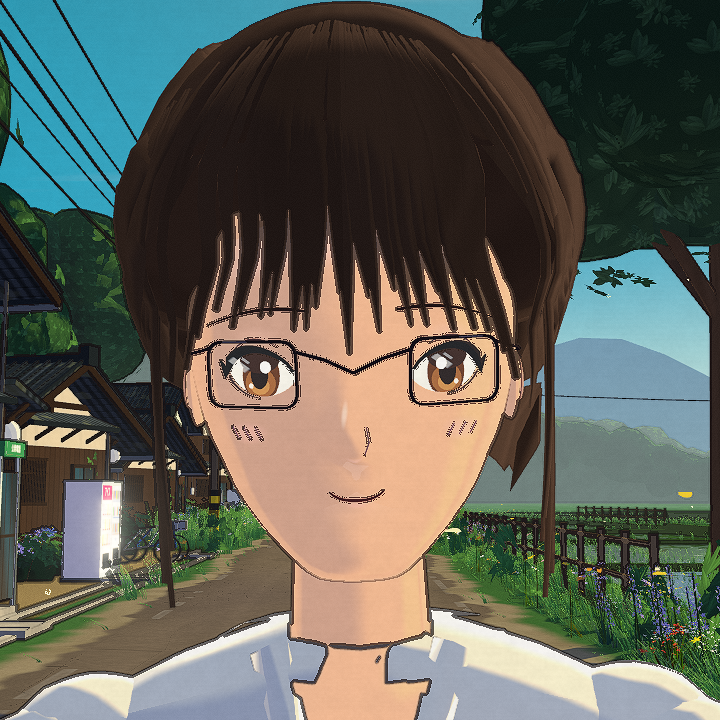
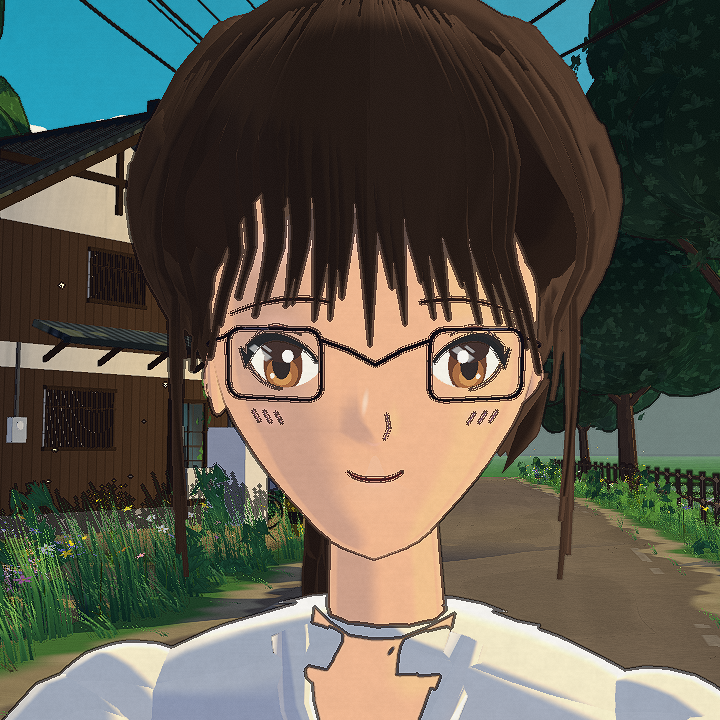
Head pass 3: shorter lower face with a jaw angle under the ear, straight jaw line and small rounded chin, slimmer neck set behind the chin; fuller rounder hair with a shell that thins to the hairline (no ledge), broader face-framing locks; eyes/lenses ~6% larger

diff --git a/src/rider/rider.ts b/src/rider/rider.ts
@@ -96,22 +96,23 @@ const dirOf = (az: number, el: number) => V(Math.sin(az) * Math.cos(el), Math.si
  * where only the chin is left in front of the neck). Above y = 0.03 the cranium closes as a round
  * cap. The front half is a flatter superellipse so the face reads as a soft oval plate.
  */
-const CAP_Y = 0.03, TOP_Y = 0.132, CHIN_Y = -0.1145;
+const CAP_Y = 0.03, TOP_Y = 0.132, CHIN_Y = -0.105;
 const PROF: [number, number, number, number][] = [
   // y       W       F       B
   [0.03, 0.088, 0.099, 0.112],
   [0.01, 0.087, 0.1, 0.11],
   [-0.012, 0.085, 0.099, 0.103],
-  [-0.03, 0.081, 0.099, 0.092],
-  [-0.045, 0.076, 0.098, 0.075],
-  [-0.058, 0.069, 0.096, 0.056],
-  [-0.07, 0.0625, 0.094, 0.034],
-  [-0.082, 0.0535, 0.0925, 0.01],
-  [-0.093, 0.043, 0.0925, -0.014],
-  [-0.102, 0.033, 0.09, -0.033],
-  [-0.108, 0.026, 0.085, -0.048],
-  [-0.112, 0.018, 0.077, -0.06],
-  [CHIN_Y, 0.0, 0.068, -0.066],
+  [-0.028, 0.081, 0.099, 0.093],
+  [-0.042, 0.0752, 0.098, 0.079],
+  // Jaw angle just below the ear, then a straight jaw line running forward to a small rounded chin.
+  [-0.053, 0.0675, 0.096, 0.061],
+  [-0.062, 0.06, 0.0945, 0.036],
+  [-0.071, 0.0515, 0.0935, 0.013],
+  [-0.08, 0.042, 0.093, -0.01],
+  [-0.088, 0.033, 0.092, -0.031],
+  [-0.095, 0.0245, 0.09, -0.049],
+  [-0.1, 0.016, 0.086, -0.062],
+  [CHIN_Y, 0.0, 0.079, -0.07],
 ];
 /** Dense lookup of the Catmull-Rom interpolated profile (W, F, B) from CAP_Y down to CHIN_Y. */
 const PROF_N = 1024;
@@ -155,11 +156,11 @@ function inHead(x: number, y: number, z: number): boolean {
   const D = (F + B) / 2;
   if (W <= 1e-5 || D <= 1e-5) return false;
   const v = (z - (B - F) / 2) / D, u = Math.abs(x) / W;
-  const p = v < 0 ? 2 + 0.55 * smooth(0.06, 0.0, y) * smooth(-0.105, -0.07, y) : 2;
+  const p = v < 0 ? 2 + 0.55 * smooth(0.06, 0.0, y) * smooth(-0.098, -0.066, y) : 2;
   return Math.pow(u, p) + v * v < 1;
 }
 /** Nose tip / bridge, cheekbones and lips as soft radial bumps (angles from the front axis). */
-const NOSE_EL = Math.atan2(-0.047, 0.1), LIP_EL = Math.atan2(-0.066, 0.096);
+const NOSE_EL = Math.atan2(-0.0435, 0.1), LIP_EL = Math.atan2(-0.061, 0.096);
 function faceBumps(d: THREE.Vector3): number {
   const az = Math.atan2(d.x, -d.z), el = Math.asin(Math.max(-1, Math.min(1, d.y)));
   if (Math.abs(az) > 1.2) return 0;
@@ -186,6 +187,8 @@ function faceR(d: THREE.Vector3): number {
 }
 /** Direction [az, el] of the face-surface point whose (x, y) is given (front half). */
 function faceAt(x: number, y: number): [number, number] {
+  // Features below the eyes were laid out on a longer lower face; map them onto the shorter one.
+  if (y < -0.012) y = -0.012 + (y + 0.012) * 0.9;
   let az = Math.asin(Math.max(-0.99, Math.min(0.99, x / 0.1))), el = Math.atan2(y, 0.1);
   for (let it = 0; it < 8; it++) {
     const d = dirOf(az, el);
@@ -253,7 +256,13 @@ function placeOnHead(g: THREE.BufferGeometry, az: number, el: number, lift: numb
 }
 
 /** Hair volume above the skin: fuller on the crown and the back. */
-const shellOff = (d: THREE.Vector3) => 0.013 + 0.033 * Math.pow(Math.max(0, d.y), 1.2) + 0.016 * Math.max(0, d.z) * (0.6 + 0.4 * Math.max(0, d.y + 0.3)) + 0.007 * Math.abs(d.x) * smooth(-0.2, 0.4, d.y);
+const shellOff = (d: THREE.Vector3) => 0.014 + 0.042 * Math.pow(Math.max(0, d.y), 1.1) + 0.022 * Math.max(0, d.z) * (0.6 + 0.4 * Math.max(0, d.y + 0.3)) + 0.008 * Math.abs(d.x) * smooth(-0.1, 0.5, d.y);
+
+/** Shell offset thinning to the skin over the last stretch above the hairline (no ledge at the edge). */
+function shellTap(d: THREE.Vector3): number {
+  const az = Math.atan2(d.x, -d.z), el = Math.asin(Math.max(-1, Math.min(1, d.y)));
+  return -0.005 + (shellOff(d) + 0.005) * smooth(0, 0.32, el - hairline(az));
+}
 
 /**
  * Tapered clump / ribbon along a path: diamond cross-section (sides ±w, ridge +th along `ups`,
@@ -332,7 +341,7 @@ function hairStrand(az0: number, el0: number, az1: number, el1: number, width: n
     const el = el0 + (el1 - el0) * t;
     const d = dirOf(az, el);
     const f = over ? 1 : smooth(hairline(az) - 0.3, hairline(az) + 0.02, el);
-    const off = (over ? 0.0022 + shellOff(d) : 0.006 + (shellOff(d) - 0.01) * f) + lift * t * t;
+    const off = (over ? 0.0022 + Math.max(0.004, shellTap(d)) : 0.006 + (shellOff(d) - 0.01) * f) + lift * t * t;
     pts.push(d.clone().multiplyScalar(faceR(d) + off));
     ups.push(radialNormal(d, faceR));
     const ww = width * (0.12 + 0.88 * (1 - Math.pow(t, 1.6))) * (1 - 0.6 * Math.pow(t, 8));
@@ -1123,9 +1132,9 @@ export class Rider {
 
     // Neck: slim, leaning slightly forward, entering the head behind the chin.
     {
-      const neck = new Limb(tp, [0.043, 0.039, 0.035, 0.034], SKIN, M.skin, ID.skin);
+      const neck = new Limb(tp, [0.039, 0.034, 0.03, 0.029], SKIN, M.skin, ID.skin);
       neck.mesh.geometry.scale(1, 1, 0.92);
-      neck.set(V(0, 0.43, 0.006), V(0, 0.64, -0.006));
+      neck.set(V(0, 0.43, 0.01), V(0, 0.64, 0.002));
     }
     this.head.position.set(0, 0.664, -0.012);
     this.head.scale.setScalar(HEAD_SCALE);
@@ -1231,7 +1240,7 @@ export class Rider {
       const local = (g: THREE.BufferGeometry) => g.translate(-P.x, -P.y, -P.z);
       // Almond opening in local angular coords: X toward the outer corner, Y up. The outer corner
       // lifts a touch; the lower lid is flatter than the upper.
-      const hw = 0.018 / r0, hh = 0.0118 / r0, tilt = 0.14 * hh;
+      const hw = 0.0189 / r0, hh = 0.0126 / r0, tilt = 0.14 * hh;
       const yTop = (X: number) => hh * Math.pow(Math.max(0, 1 - (X / hw) ** 2), 0.62) + tilt * (X / hw) - 0.12 * hh * (X / hw) ** 3;
       const yBot = (X: number) => -0.78 * hh * Math.pow(Math.max(0, 1 - (X / hw) ** 2), 0.75) + tilt * (X / hw);
       const at = (X: number, Y: number, lift: number) => {
@@ -1418,7 +1427,7 @@ export class Rider {
    */
   private buildGlasses(eyeX: number, eyeY: number): void {
     const FR = "#2a2024", HI = "#7a7078";
-    const W = 0.045, H = 0.029, RC = 0.0072;
+    const W = 0.048, H = 0.031, RC = 0.0076;
     const SIDE = 0.0011, TOP = 0.0015, BOT = 0.0011, DEPTH = 0.0016, CLEAR = 0.0052;
     const rrect = <T extends THREE.Path>(shape: T, x0: number, y0: number, x1: number, y1: number, r: number): T => {
       shape.moveTo(x0 + r, y0);
@@ -1521,7 +1530,7 @@ export class Rider {
       for (let j = 0; j < NR; j++) {
         const el = j === 0 ? e0 : e0 + 0.05 + (Math.PI / 2 - 0.03 - e0 - 0.05) * ((j - 1) / (NR - 1));
         const d = dirOf(az, el);
-        const p = d.clone().multiplyScalar(faceR(d) + (j === 0 ? -0.005 : shellOff(d)));
+        const p = d.clone().multiplyScalar(faceR(d) + (j === 0 ? -0.005 : shellTap(d)));
         pos.push(p.x, p.y, p.z);
       }
     }
@@ -1620,6 +1629,8 @@ export class Rider {
         [0.98, 0.95, 1.14, 0.18, CHIN_Y + 0.026, 0.0055, -0.006, 0.003],
         [1.3, 0.86, 1.46, 0.06, CHIN_Y + 0.018, 0.007, 0.007, 0.001],
         [1.16, 0.9, 1.34, 0.05, CHIN_Y - 0.02, 0.005, 0.002, 0.003],
+        [1.34, 0.8, 1.46, 0.04, CHIN_Y + 0.012, 0.012, 0.004, -0.003],
+        [1.42, 0.74, 1.52, 0.02, CHIN_Y + 0.028, 0.011, 0.006, -0.004],
       ] as number[][]).forEach(([az0, el0, az1, el1, yEnd, w, fwd, curl], k) => {
         const rd = dirOf(s * az0, el0);
         const root = rd.clone().multiplyScalar(faceR(rd) + shellOff(rd));
@@ -1635,7 +1646,7 @@ export class Rider {
     // segment lobed into strands) to mid-back plus a thinner secondary strand. Segments are
     // spring-damped and pushed off her back in update().
     const nd = dirOf(Math.PI, TIE_EL);
-    const tie = nd.clone().multiplyScalar(faceR(nd) + shellOff(nd) + 0.003);
+    const tie = nd.clone().multiplyScalar(faceR(nd) + shellTap(nd) + 0.006);
     const lobed = (rt: number, rb: number, len: number, lobes: number, twist: number) => {
       const prof = [
         new THREE.Vector2(0.0005, -len - rb * 0.8),
